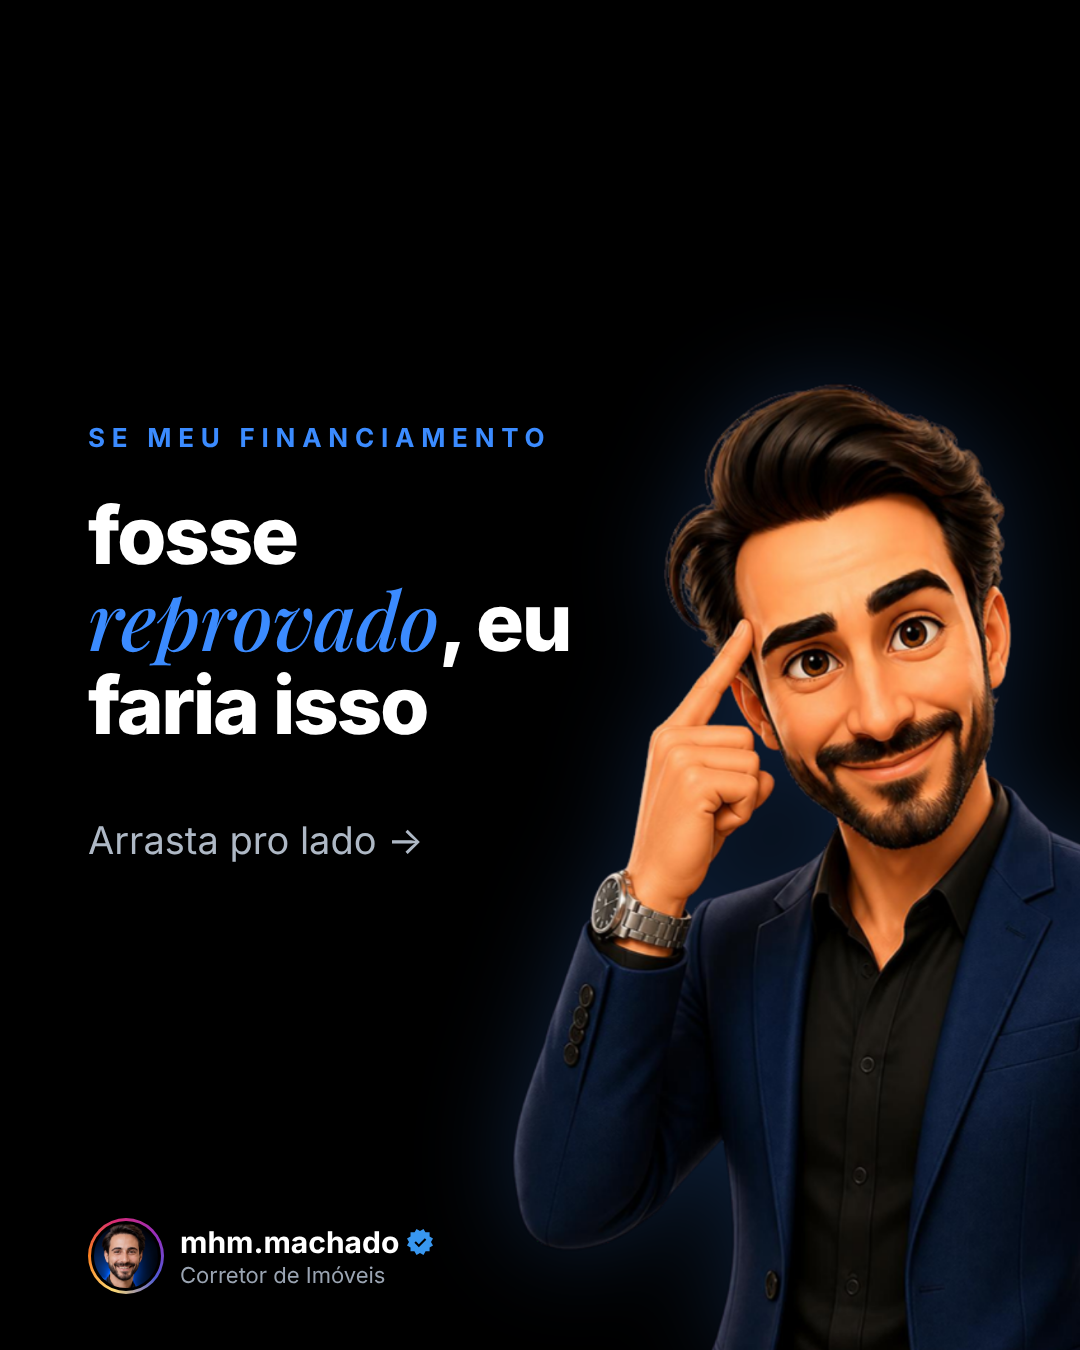
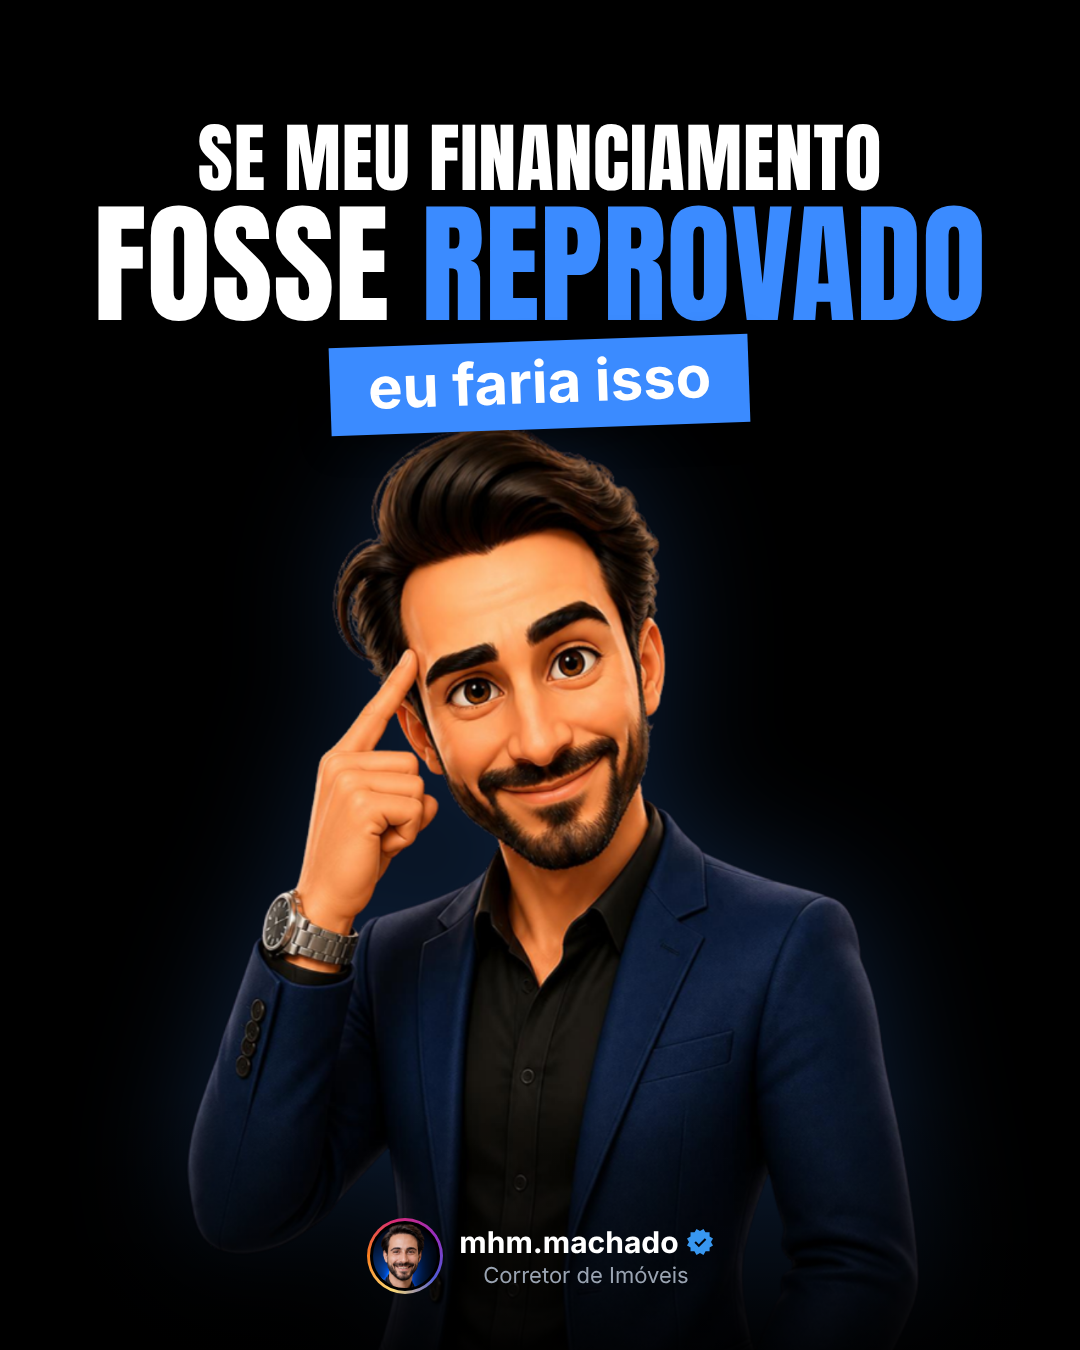
Carrossel financiamento reprovado: capa no layout da referência (título no topo, etiqueta, boneco central)
Gerador ganhou bonecoCentral + etiqueta na capa.

Claude-Session: https://claude.ai/code/session_018X91MFfPMRMPYSAfb3KdfT

diff --git a/docs/posicionamento/ESTILO-CARROSSEL.md b/docs/posicionamento/ESTILO-CARROSSEL.md
@@ -28,6 +28,7 @@ Toda pessoa que aparecer numa lâmina da referência vira o **boneco 3D do Mathe
 | Calendário mês → mês | `lista` com itens `**Janeiro** → Início de março` |
 | "Comenta SCR que te envio o link" | `cta` + `icone: "message-circle"`; palavra-chave em `**…**` |
 | Mitos (referência de outro perfil, 2026-10-11): objeção entre aspas + "Mito" grande | `texto` + `centro` + `frase` (condensada) + `selo` ("Mito", serifa itálica) + `texto`/`texto2` + `fonte`; intro com `selo: "Será mesmo?"` + `seloBranco`; fecho condensado em `fecho` |
+| Capa com título grande no topo + etiqueta ("eu faria isso") + pessoa grande embaixo, centralizado | `capa` + `bonecoCentral: "<pose>"` + `chamada` + `tituloCondensado` + `etiqueta` (aprovado pelo dono em 2026-10-12: manter o layout da referência na capa) |
 | Capa com a pessoa grande ao centro e título embaixo | `capa` + `fotoCentral` + `centro` + `tituloCondensado` |
 | Lâmina com o Matheus em pose/expressão (pensando, surpreso, joinha, celular…) | `"boneco": "<pose>"` — boneco 3D dele em `assets/boneco-3d/` (2026-10-11) |
 | Gráfico comparativo (SAC x PRICE) | ainda não automatizado — fazer como imagem (`imagem`) ou descrever em lista |
